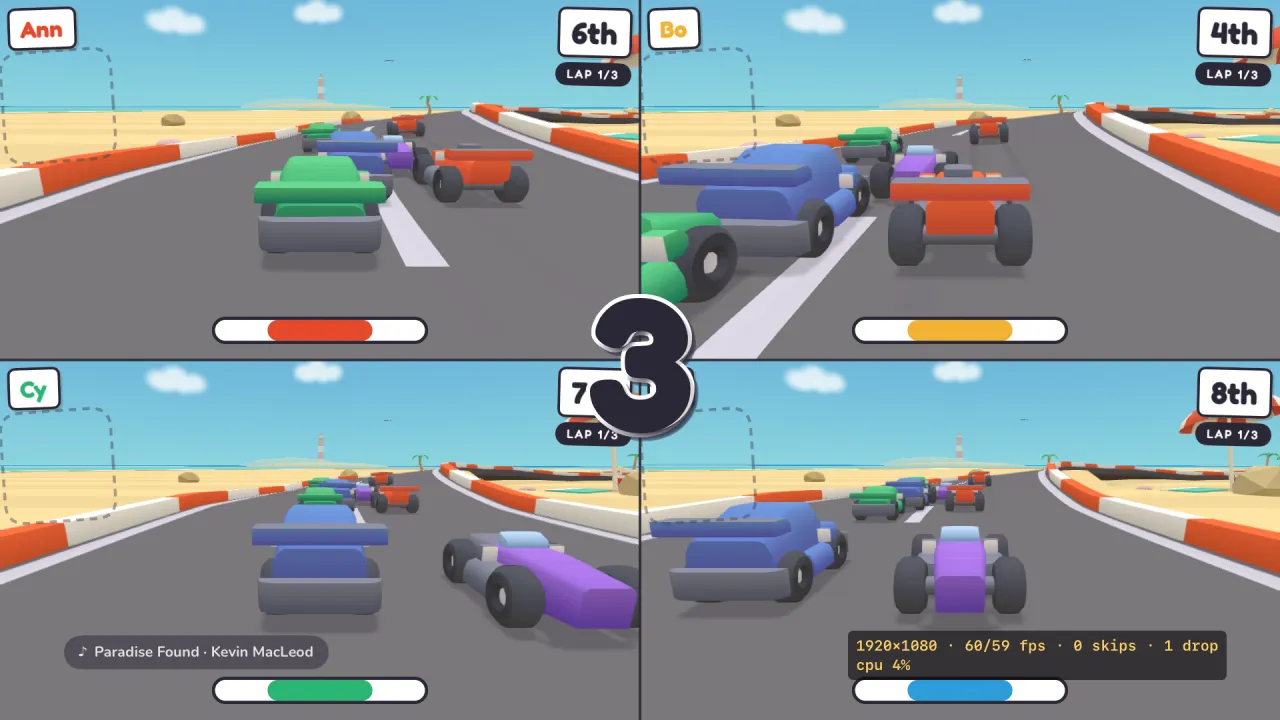
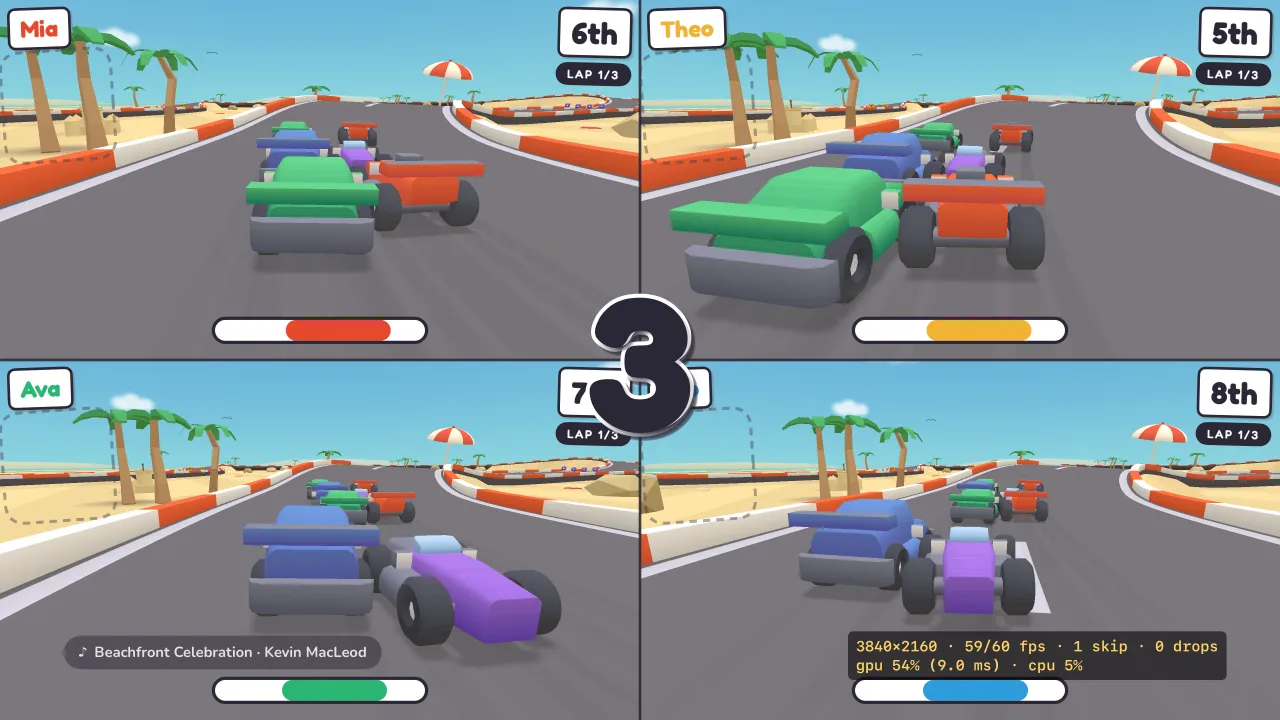
fix(tvos): the countdown's cut and shadow stop being clipped
A REGRESSION FROM THE FLATTEN. `.drawingGroup()` rasterizes exactly the view's
layout bounds, and neither half of the die-cut is inside them: the white cut is
16 `.offset` copies and the hard shadow is drawn past the frame, and an offset
and a shadow both leave layout alone. That was free while the banner composited
live — the extra pixels simply landed on the screen — and became a numeral with
its edge and shadow sliced off the moment the group started rasterizing it.

Padded by the same numbers that create the overflow (`edge` for the stamps,
`drop` for the shadow) rather than by a guessed constant, and symmetric so the
glyph stays exactly where it was on screen. The shadow's 6 pt was a literal at
its one call site; it is now the named constant the padding also reads, so the
two cannot drift.

Verified from the device: `npm run shots:tvos -- --only countdown`.

Claude-Session: https://claude.ai/code/session_01Nw6Esxs5LGsFhJcAaH7tZw

diff --git a/shells/tvos/TinyTrackParty/Screens/CountdownView.swift b/shells/tvos/TinyTrackParty/Screens/CountdownView.swift
@@ -86,6 +86,9 @@ private struct DieCutText: View {
     /// screen), halved for the convention above.
     private var edge: CGFloat { size * 0.0427 / 2 }
 
+    /// The hard shadow's offset, `filter: drop-shadow(6px 6px 0 …)`.
+    private static let drop: CGFloat = 6
+
     /// Enough stamps that the edge round a chunky display face reads as one
     /// continuous cut rather than a ring of blobs.
     private static let samples = 16
@@ -112,7 +115,15 @@ private struct DieCutText: View {
         // `filter: drop-shadow(6px 6px 0 var(--shadow-ink))` — a filter follows
         // the rendered alpha, which is what `hardShadow` does, so the glyphs
         // cast rather than a box around them.
-        .hardShadow(CGSize(width: 6, height: 6))
+        .hardShadow(CGSize(width: Self.drop, height: Self.drop))
+        // ROOM FOR WHAT SPILLS PAST THE BOUNDS, and it is not cosmetic padding.
+        // Neither half of the die-cut grows the layout: the white cut is 16
+        // `.offset` copies and the shadow is drawn outside the frame. That was
+        // free while the banner composited live, and became a clipped numeral
+        // the moment `.drawingGroup()` started rasterizing it — a drawing group
+        // is exactly the layout bounds, so everything outside them was cut off.
+        // Symmetric, so the glyph stays where it was on screen.
+        .padding(edge + Self.drop)
     }
 
     private func glyphs(_ color: Color) -> some View {
